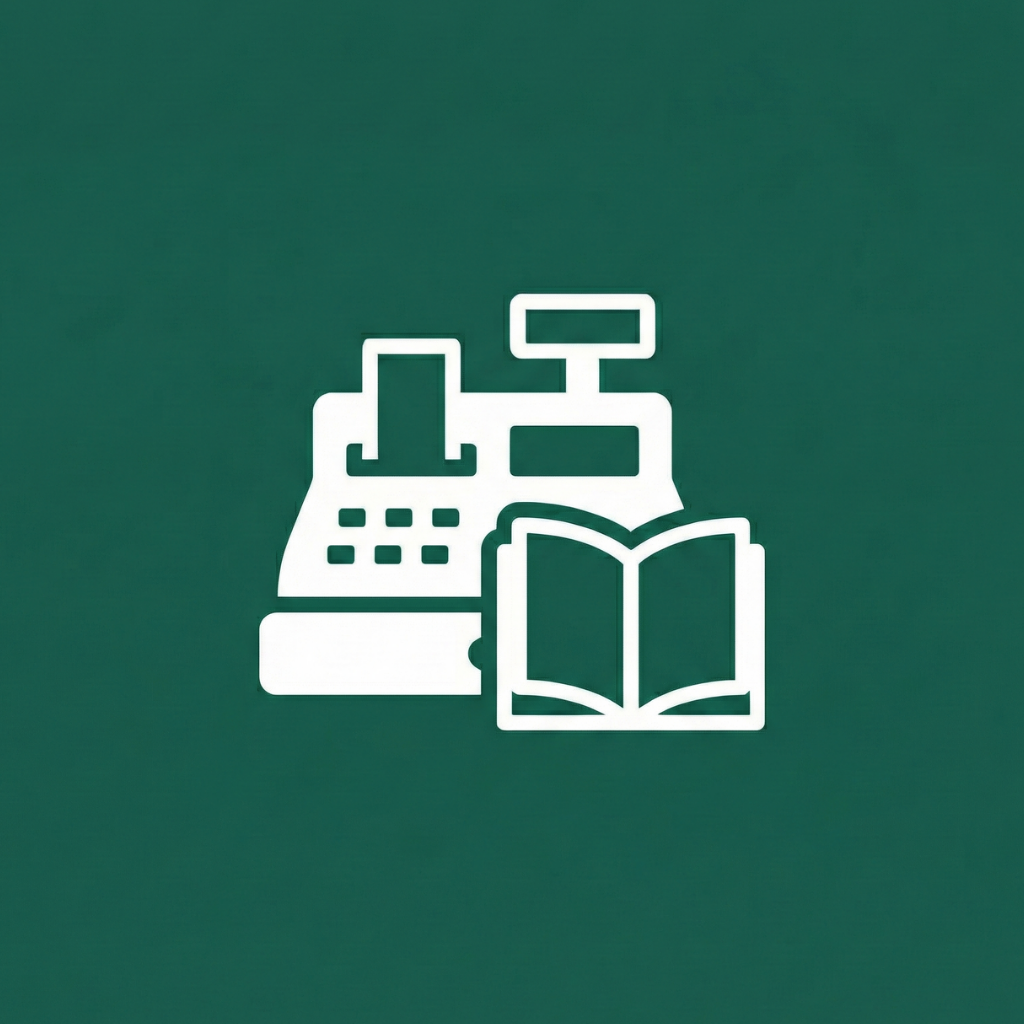
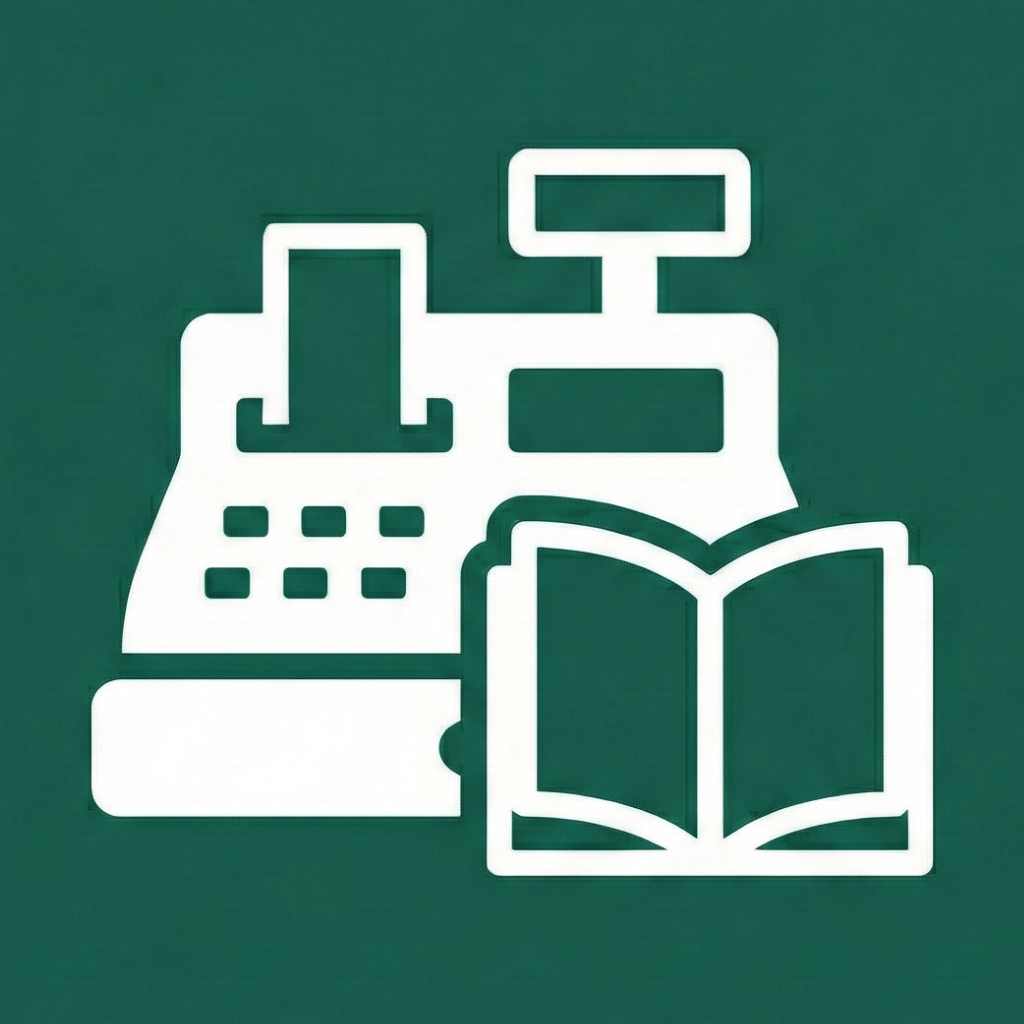
Fix period filter for dashboard summary and update assets
- Add period parameter to useMonthSummary hook (month/all)
- Connect period state to hook in HomePage
- Update app icons and splash screen

🤖 Generated with [Claude Code](https://claude.com/claude-code)

Changed region(s): [[0.0625, 0.125, 0.9375, 0.875]]

diff --git a/src/hooks/useAuth.ts b/src/hooks/useAuth.ts
@@ -203,18 +203,31 @@ export function useAuth() {
 
       // Kullanıcı için işletme var mı kontrol et, yoksa oluştur
       if (data.user) {
-        const existingIsletme = await fetchIsletme(data.user.id);
+        let isletme = await fetchIsletme(data.user.id);
 
-        if (!existingIsletme) {
+        if (!isletme) {
           // İlk giriş - işletme oluştur
           const userName = credential.fullName?.givenName || 'İşletmem';
-          await supabase
+          const { data: newIsletme } = await supabase
             .from('isletmeler')
             .insert({
               user_id: data.user.id,
               name: `${userName}'in İşletmesi`,
-            });
+            })
+            .select()
+            .single();
+
+          isletme = newIsletme;
         }
+
+        // State'i güncelle
+        setState((prev) => ({
+          ...prev,
+          session: data.session,
+          user: data.user,
+          isletme,
+          loading: false,
+        }));
       }
 
       return data;
@@ -246,18 +259,31 @@ export function useAuth() {
 
       // Kullanıcı için işletme var mı kontrol et, yoksa oluştur
       if (data.user) {
-        const existingIsletme = await fetchIsletme(data.user.id);
+        let isletme = await fetchIsletme(data.user.id);
 
-        if (!existingIsletme) {
+        if (!isletme) {
           // İlk giriş - işletme oluştur
           const userName = data.user.user_metadata?.full_name?.split(' ')[0] || 'İşletmem';
-          await supabase
+          const { data: newIsletme } = await supabase
             .from('isletmeler')
             .insert({
               user_id: data.user.id,
               name: `${userName}'in İşletmesi`,
-            });
+            })
+            .select()
+            .single();
+
+          isletme = newIsletme;
         }
+
+        // State'i güncelle
+        setState((prev) => ({
+          ...prev,
+          session: data.session,
+          user: data.user,
+          isletme,
+          loading: false,
+        }));
       }
 
       return data;

diff --git a/src/hooks/useIslemler.ts b/src/hooks/useIslemler.ts
@@ -555,8 +555,8 @@ async function reverseBalances(islem: Islem) {
   }
 }
 
-// Bu ay gelir/gider özeti
-export function useMonthSummary() {
+// Gelir/gider özeti (dönem parametreli)
+export function useMonthSummary(period: 'month' | 'all' = 'month') {
   const { isletme } = useAuthContext();
 
   const now = new Date();
@@ -564,16 +564,21 @@ export function useMonthSummary() {
   const endOfMonth = new Date(now.getFullYear(), now.getMonth() + 1, 0).toISOString().split('T')[0];
 
   return useQuery({
-    queryKey: ['month-summary', isletme?.id, startOfMonth],
+    queryKey: ['month-summary', isletme?.id, period, startOfMonth],
     queryFn: async () => {
       if (!isletme) return { income: 0, expense: 0 };
 
-      const { data, error } = await supabase
+      let query = supabase
         .from('islemler')
         .select('type, amount')
-        .eq('isletme_id', isletme.id)
-        .gte('date', startOfMonth)
-        .lte('date', endOfMonth);
+        .eq('isletme_id', isletme.id);
+
+      // Sadece "month" seçiliyse tarih filtresi uygula
+      if (period === 'month') {
+        query = query.gte('date', startOfMonth).lte('date', endOfMonth);
+      }
+
+      const { data, error } = await query;
 
       if (error) throw error;
 

diff --git a/src/app/(tabs)/index.tsx b/src/app/(tabs)/index.tsx
@@ -37,7 +37,7 @@ export default function HomePage() {
   const { data: hesaplar, isLoading: hesaplarLoading } = useHesaplar();
   const totalBalance = useTotalBalance();
   const { totalReceivables, totalPayables } = useCariSummary();
-  const { data: monthSummary } = useMonthSummary();
+  const { data: monthSummary } = useMonthSummary(period as 'month' | 'all');
 
   const totalIncome = monthSummary?.income ?? 0;
   const totalExpense = monthSummary?.expense ?? 0;